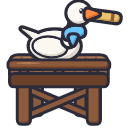
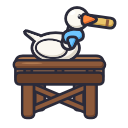
fix(art): pest and defender portraits no longer cut at the card edge

diff --git a/tools/copy_art.py b/tools/copy_art.py
@@ -443,6 +443,31 @@ def flat_svg(text: str) -> str:
 PORTRAIT_ERASE = {"enemies/ui_enemy_portrait_fox.png": (0, 116, 20, 128)}  # x0, y0, x1, y1
 
 
+# Portraits whose design drawing runs past the SVG viewBox (the PNG cuts it
+# at the card's edge): rendered again with the viewBox grown by PORTRAIT_PAD
+# on every side, same 128 px picture.
+PORTRAIT_PAD = 0.06
+PADDED_PORTRAITS = {  # picture in art/: svg in assets/
+    "enemies/ui_enemy_portrait_caterpillar.png": "c/ui_enemy_portrait_caterpillar",
+    "enemies/ui_enemy_portrait_beetle.png": "c/ui_enemy_portrait_beetle",
+    "defenders/ui_def_portrait_goose.png": "d/ui_def_portrait_goose",
+    "defenders/ui_def_portrait_goose_locked.png": "d/ui_def_portrait_goose_locked",
+    "defenders/ui_def_portrait_beaver.png": "d/ui_def_portrait_beaver",
+    "defenders/ui_def_portrait_beaver_locked.png": "d/ui_def_portrait_beaver_locked",
+}
+
+
+def padded_svg(text: str) -> str:
+    text = re.sub(r"<metadata>.*?</metadata>", "", text, flags=re.S)
+
+    def grow(m: re.Match) -> str:
+        x, y, w, h = (float(n) for n in m.group(1).split())
+        dx, dy = w * PORTRAIT_PAD, h * PORTRAIT_PAD
+        return f'viewBox="{x - dx:g} {y - dy:g} {w + 2 * dx:g} {h + 2 * dy:g}"'
+
+    return re.sub(r'viewBox="([^"]+)"', grow, text, count=1)
+
+
 def trim_portraits() -> None:
     from PIL import Image
     for rel, box in PORTRAIT_ERASE.items():
@@ -543,6 +568,10 @@ def make_hi() -> dict[str, dict]:
     logo = logo.replace('height="440" viewBox="0 0 960 440"', 'height="480" viewBox="0 -40 960 480"', 1)
     (tmp / "logo_plate.svg").write_text(logo, encoding="utf-8")
     jobs.append({"src": str(tmp / "logo_plate.svg"), "scale": 1.0, "out": str(DST / "ui" / "logo_plate.png")})
+    for rel, base in PADDED_PORTRAITS.items():
+        src = tmp / f"{Path(base).name}.svg"
+        src.write_text(padded_svg((SVG / f"{base}.svg").read_text(encoding="utf-8")), encoding="utf-8")
+        jobs.append({"src": str(src), "scale": 1.0, "out": str(DST / rel)})
     listing = tmp / "jobs.json"
     listing.write_text(json.dumps(jobs), encoding="utf-8")
     subprocess.run([GODOT, "--headless", "--path", str(ROOT / "tower-defense"), "-s", "res://tools/render_svg_cli.gd",
